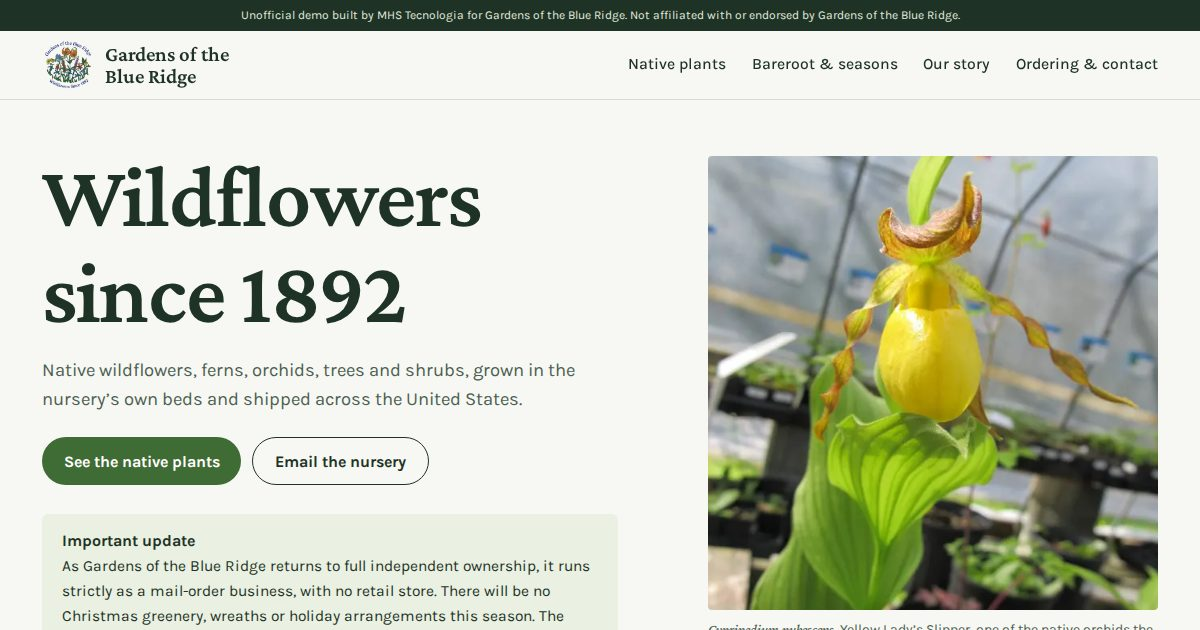
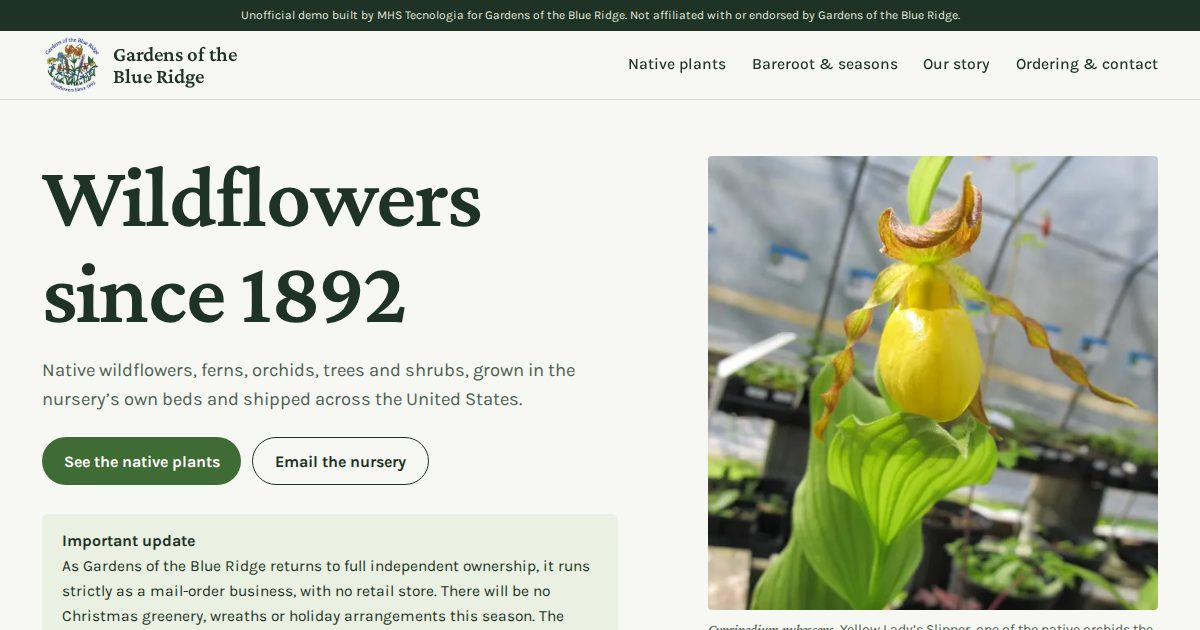
Previews: 113 ativos

Changed region(s): [[0.0308, 0.0603, 0.185, 0.1508]]

diff --git a/gardens-blue-ridge-ennice-nc/plants.html b/gardens-blue-ridge-ennice-nc/plants.html
@@ -42,7 +42,7 @@ em.lat,.lat{font-family:var(--serif);font-style:italic;font-weight:500}
 header.site{background:var(--paper);border-bottom:1px solid var(--line);position:sticky;top:0;z-index:20}
 header.site .wrap{display:flex;align-items:center;justify-content:space-between;gap:1rem;min-height:4.25rem}
 .brand{display:flex;align-items:center;gap:.7rem;color:var(--ink);text-decoration:none}
-.brand img{width:52px;height:52px;mix-blend-mode:multiply}
+.brand img{width:60px;height:60px;mix-blend-mode:multiply}
 .brand span{font-family:var(--serif);font-size:1.3rem;font-weight:600;line-height:1.05}
 .nav{display:flex;align-items:center;gap:1.6rem}
 .nav > a{color:var(--ink);text-decoration:none;font-weight:500;font-size:.98rem;padding:.4rem 0;border-bottom:2px solid transparent}
@@ -169,6 +169,7 @@ header.site .wrap{display:flex;align-items:center;justify-content:space-between;
 .plant{border-top:1px solid var(--line);padding-top:1.1rem}
 .plant .ph{margin:0 0 1rem;aspect-ratio:4/3;overflow:hidden;border-radius:4px;background:#1b1f1a}
 .plant .ph img{width:100%;height:100%;object-fit:cover}
+.plant .ph.fit{background:#000}
 .plant .ph.fit img{object-fit:contain}
 #wild-ginger .ph img{object-position:50% 12%}
 .plant h3{font-size:1.55rem;font-style:italic;font-weight:500}
@@ -176,6 +177,7 @@ header.site .wrap{display:flex;align-items:center;justify-content:space-between;
 .plant p{color:var(--soft);margin:0 0 .7rem;max-width:34rem}
 .plant .meta{display:flex;flex-wrap:wrap;gap:.4rem 1.2rem;font-size:.92rem;color:var(--ink)}
 .plant .meta .out{color:#8a3b1c;font-weight:700}
+.plant .meta .ask{margin-left:auto;font-weight:700;padding:.3rem 0}
 .plant.small{display:block}
 .textlist{display:grid;gap:0 2.5rem}
 @media(min-width:820px){.textlist{grid-template-columns:1fr 1fr}}
@@ -249,7 +251,7 @@ addEventListener('DOMContentLoaded',function(){
 <div class="demo" role="note"><p>Unofficial demo built by MHS Tecnologia for Gardens of the Blue Ridge. Not affiliated with or endorsed by Gardens of the Blue Ridge.</p></div>
 <header class="site">
   <div class="wrap">
-    <a class="brand" href="index.html"><img src="img/logo-180.webp" srcset="img/logo-180.webp 180w, img/logo-360.webp 360w" sizes="52px" width="180" height="180" alt=""><span>Gardens of the<br>Blue Ridge</span></a>
+    <a class="brand" href="index.html"><img src="img/logo-180.webp" srcset="img/logo-180.webp 180w, img/logo-360.webp 360w" sizes="60px" width="180" height="180" alt=""><span>Gardens of the<br>Blue Ridge</span></a>
     <nav class="nav" aria-label="Main">
       <a href="plants.html" aria-current=page>Native plants</a><a href="bareroot.html">Bareroot & seasons</a><a href="about.html">Our story</a><a href="ordering.html">Ordering & contact</a>
       <details class="menu"><summary>Menu</summary><div class="sheet"><a href="index.html">Home</a><a href="plants.html" aria-current=page>Native plants</a><a href="bareroot.html">Bareroot & seasons</a><a href="about.html">Our story</a><a href="ordering.html">Ordering & contact</a></div></details>
@@ -265,7 +267,7 @@ addEventListener('DOMContentLoaded',function(){
     <ul class="jump"><li><a href="#wild">Wildflowers</a></li><li><a href="#fern">Ferns</a></li><li><a href="#orchid">Native orchids</a></li><li><a href="#trillium">Trilliums</a></li></ul>
   </div>
 </section>
-<section class="group" id="wild" aria-labelledby="g-wild"><div class="wrap"><details class="grp" open><summary><h2 id="g-wild">Wildflowers</h2><p>Woodland and meadow wildflowers, from the first hepatica of spring to late-summer cohosh. <span class="count">9 plants</span></p></summary><div class="plants"><article class="plant" id="hepatica"><figure class="ph"><img src="img/hepatica-600.webp" srcset="img/hepatica-600.webp 600w, img/hepatica-692.webp 692w" sizes="(min-width: 1180px) 545px, (min-width: 820px) 45vw, calc(100vw - 2rem)" width="692" height="514" alt="Sharp-lobed Hepatica (Hepatica nobilis acuta), photographed by the nursery" loading="lazy" decoding="async"></figure><h3>Hepatica nobilis acuta</h3><p class="com">Sharp-lobed Hepatica</p><p>A very early spring bloomer, one of the first of the woodland wildflowers to bloom. Has pretty white flowers.</p><div class="meta"><span>$6.95 – $9.40</span></div></article><article class="plant" id="shooting-star"><figure class="ph"><img src="img/shooting-star-600.webp" srcset="img/shooting-star-600.webp 600w, img/shooting-star-1076.webp 1076w" sizes="(min-width: 1180px) 545px, (min-width: 820px) 45vw, calc(100vw - 2rem)" width="1076" height="1434" alt="Shooting Star (Dodecatheon meadia), photographed by the nursery" loading="lazy" decoding="async"></figure><h3>Dodecatheon meadia</h3><p class="com">Shooting Star</p><p>One of our best sellers, has beautiful pure white flowers that appear in the spring.</p><div class="meta"><span>$6.95 – $9.40</span></div></article><article class="plant" id="columbine"><figure class="ph fit"><img src="img/columbine-600.webp" width="600" height="754" alt="American Columbine (Aquilegia canadensis), photographed by the nursery" loading="lazy" decoding="async"></figure><h3>Aquilegia canadensis</h3><p class="com">American Columbine</p><p>The most common Columbine in our area. Has a reddish orange flower with a yellow center. Blooms spring and summer. Will reach a height of 2-3 ft.</p><div class="meta"><span>$9.40</span></div></article><article class="plant" id="coneflower"><figure class="ph"><img src="img/coneflower-600.webp" srcset="img/coneflower-600.webp 600w, img/coneflower-1100.webp 1100w" sizes="(min-width: 1180px) 545px, (min-width: 820px) 45vw, calc(100vw - 2rem)" width="1100" height="825" alt="Purple Coneflower (Echinacea purpurea), photographed by the nursery" loading="lazy" decoding="async"></figure><h3>Echinacea purpurea</h3><p class="com">Purple Coneflower</p><p>This is the best known coneflower and is hard to beat for its beautiful purple flowers in the summer.</p><div class="meta"><span>$9.40</span></div></article><article class="plant" id="fly-poison"><figure class="ph"><img src="img/fly-poison-500.webp" width="500" height="774" alt="Fly Poison (Amianthium muscaetoxicum), photographed by the nursery" loading="lazy" decoding="async"></figure><h3>Amianthium muscaetoxicum</h3><p class="com">Fly Poison</p><p>The basal foliage on this plant is grass like except wider than grass. Has a showy white flower in the summer, really stands out in a shade garden.</p><div class="meta"><span>$14.95 – $19.95</span></div></article><article class="plant" id="black-cohosh"><figure class="ph"><img src="img/black-cohosh-600.webp" srcset="img/black-cohosh-600.webp 600w, img/black-cohosh-1044.webp 1044w" sizes="(min-width: 1180px) 545px, (min-width: 820px) 45vw, calc(100vw - 2rem)" width="1044" height="674" alt="Black Cohosh (Actaea racemosa), photographed by the nursery" loading="lazy" decoding="async"></figure><h3>Actaea racemosa</h3><p class="com">Black Cohosh</p><p>This tall, white spike flower blooms in late summer and grows up to 4-6 feet tall with foliage reaching 3-4 feet tall.</p><div class="meta"><span>$6.95 – $12.55</span></div></article><article class="plant" id="jack"><figure class="ph"><img src="img/jack-600.webp" srcset="img/jack-600.webp 600w, img/jack-1100.webp 1100w" sizes="(min-width: 1180px) 545px, (min-width: 820px) 45vw, calc(100vw - 2rem)" width="1100" height="1467" alt="Jack-in-the-Pulpit (Arisaema triphyllum), photographed by the nursery" loading="lazy" decoding="async"></figure><h3>Arisaema triphyllum</h3><p class="com">Jack-in-the-Pulpit, Indian Turnip</p><p>A must for every woodland garden. Growing to heights of 2 feet or more in a moist shady location. Has 2 leaves generally divided into 3 parts.</p><div class="meta"><span>$6.95 – $12.55</span></div></article><article class="plant" id="wild-ginger"><figure class="ph"><img src="img/wild-ginger-496.webp" width="496" height="866" alt="Canada Wild Ginger (Asarum canadense), photographed by the nursery" loading="lazy" decoding="async"></figure><h3>Asarum canadense</h3><p class="com">Canada Wild Ginger</p><p>This ginger has kidney shaped leaves with purplish flowers just below the leaves right on the ground.</p><div class="meta"><span>$6.95 – $9.40</span></div></article></div><div class="textlist plants" style="margin-top:2.4rem"><article class="plant" id="butterfly-weed"><h3>Asclepias tuberosa</h3><p class="com">Butterfly Weed</p><p>As the name suggests this flower attracts the Butterflies with its bright orange flower during the summer months.</p><div class="meta"><span>$10.45</span></div></article></div></details></div></section><section class="group" id="fern" aria-labelledby="g-fern"><div class="wrap"><details class="grp" open><summary><h2 id="g-fern">Ferns</h2><p>Woodland ferns for shade, several of them evergreen. <span class="count">4 plants</span></p></summary><div class="textlist plants" style="margin-top:2.4rem"><article class="plant" id="lady-fern"><h3>Athyrium asplenioides</h3><p class="com">Lady Fern, Red Stem Fern</p><p>This fern has a feathery texture frond with a red stem. Grows to a height of 18-30 inches. Prefers filtered sun to shade with moist rich soil.</p><div class="meta"><span>$7.30 – $15.70</span></div></article><article class="plant" id="woodfern"><h3>Dryopteris australis</h3><p class="com">Woodfern</p><p>A lush and vibrant fern that can add a touch of nature to any space.</p><div class="meta"><span>$9.95 – $15.70</span></div></article><article class="plant" id="fancy-fern"><h3>Dryopteris intermedia</h3><p class="com">Fancy Fern, Toothed Woodfern</p><p>This fern is usually evergreen except in real cold climates. Its fronds are finely cut giving it a lacy delicate look and they are a dark green.</p><div class="meta"><span>$7.30 – $12.55</span></div></article><article class="plant" id="leather-woodfern"><h3>Dryopteris marginalis</h3><p class="com">Leather Woodfern</p><p>A dark green leathery looking fern that is evergreen. The fronds come out of the root crown in a circle and then lay out somewhat.</p><div class="meta"><span>$7.30 – $12.55</span></div></article></div></details></div></section><section class="group" id="orchid" aria-labelledby="g-orchid"><div class="wrap"><details class="grp" open><summary><h2 id="g-orchid">Native orchids</h2><p>Native orchids, some of them rare. <span class="count">4 plants</span></p></summary><div class="plants"><article class="plant" id="showy-orchid"><figure class="ph"><img src="img/showy-orchid-600.webp" srcset="img/showy-orchid-600.webp 600w, img/showy-orchid-960.webp 960w" sizes="(min-width: 1180px) 545px, (min-width: 820px) 45vw, calc(100vw - 2rem)" width="960" height="1280" alt="Showy Orchid (Galearis spectabilis), photographed by the nursery" loading="lazy" decoding="async"></figure><h3>Galearis spectabilis</h3><p class="com">Showy Orchid</p><p>A native woodland orchid prized for its striking two-toned flowers.</p><div class="meta"><span>$16.50 – $21.20</span><span class=out>Sold out for now</span></div></article></div><div class="textlist plants" style="margin-top:2.4rem"><article class="plant" id="fringed-orchid"><h3>Platanthera ciliaris</h3><p class="com">Yellow Fringed Orchid</p><p>Called the yellow-fringed orchid although the flowers are orange with fringed tips. Blooms late summer to fall reaching a height of 12-18 in.</p><div class="meta"><span>$24.00</span></div></article><article class="plant" id="puttyroot"><h3>Aplectrum hyemale</h3><p class="com">Puttyroot</p><p>A very unusual plant in that the solitary leaf appears in fall and lasts throughout the winter. Leaf is dark green with maroon on the backside.</p><div class="meta"><span>$8.95 – $14.95</span><span class=out>Sold out for now</span></div></article><article class="plant" id="ladys-slipper"><h3>Cypripedium pubescens</h3><p class="com">Yellow Lady’s Slipper</p><p>A rare and captivating orchid that brings a touch of wild elegance to shaded gardens.</p><div class="meta"><span>$75.00 – $145.00</span><span class=out>Sold out for now</span></div></article></div></details></div></section><section class="group" id="trillium" aria-labelledby="g-trillium"><div class="wrap"><details class="grp" open><summary><h2 id="g-trillium">Trilliums</h2><p>Woodland trilliums. From seed, they take about 4 to 6 years to bloom. <span class="count">4 plants</span></p></summary><div class="plants"><article class="plant" id="snow-trillium"><figure class="ph"><img src="img/snow-trillium-600.webp" srcset="img/snow-trillium-600.webp 600w, img/snow-trillium-1024.webp 1024w" sizes="(min-width: 1180px) 545px, (min-width: 820px) 45vw, calc(100vw - 2rem)" width="1024" height="768" alt="Snow Trillium (Trillium grandiflorum), photographed by the nursery" loading="lazy" decoding="async"></figure><h3>Trillium grandiflorum</h3><p class="com">Snow Trillium</p><p>One of the showiest and best known varieties. Has large white flowers in the spring, that turn to a light pink color during late spring.</p><div class="meta"><span>$9.95 – $13.95</span></div></article><article class="plant" id="purple-trillium"><figure class="ph"><img src="img/purple-trillium-600.webp" srcset="img/purple-trillium-600.webp 600w, img/purple-trillium-900.webp 900w" sizes="(min-width: 1180px) 545px, (min-width: 820px) 45vw, calc(100vw - 2rem)" width="900" height="600" alt="Purple Trillium (Trillium erectum), photographed by the nursery" loading="lazy" decoding="async"></figure><h3>Trillium erectum</h3><p class="com">Purple Trillium, Wake Robin</p><p>The flower stands up above the leaves on this Trillium. The flower is usually maroon in color although it will vary one way or the other sometimes.</p><div class="meta"><span>$9.95 – $13.95</span></div></article></div><div class="textlist plants" style="margin-top:2.4rem"><article class="plant" id="toadshade"><h3>Trillium sessile</h3><p class="com">Toadshade Trillium</p><p>A charming native wildflower prized for its distinctive maroon flowers.</p><div class="meta"><span>$9.95 – $13.95</span></div></article><article class="plant" id="yellow-trillium"><h3>Trillium luteum</h3><p class="com">Yellow Trillium</p><p>The light yellow flower sits right on top of the slightly variegated leaves. The leaves on this one can get quite large.</p><div class="meta"><span>$9.95 – $13.95</span></div></article></div></details></div></section>
+<section class="group" id="wild" aria-labelledby="g-wild"><div class="wrap"><details class="grp" open><summary><h2 id="g-wild">Wildflowers</h2><p>Woodland and meadow wildflowers, from the first hepatica of spring to late-summer cohosh. <span class="count">9 plants</span></p></summary><div class="plants"><article class="plant" id="hepatica"><figure class="ph"><img src="img/hepatica-600.webp" srcset="img/hepatica-600.webp 600w, img/hepatica-692.webp 692w" sizes="(min-width: 1180px) 545px, (min-width: 820px) 45vw, calc(100vw - 2rem)" width="692" height="514" alt="Sharp-lobed Hepatica (Hepatica nobilis acuta), photographed by the nursery" loading="lazy" decoding="async"></figure><h3>Hepatica nobilis acuta</h3><p class="com">Sharp-lobed Hepatica</p><p>A very early spring bloomer, one of the first of the woodland wildflowers to bloom. Has pretty white flowers.</p><div class="meta"><span>$6.95 – $9.40</span><a class="ask" href="mailto:contact@gardensoftheblueridge.com?subject=Question%20about%20Hepatica%20nobilis%20acuta">Ask about this plant</a></div></article><article class="plant" id="shooting-star"><figure class="ph"><img src="img/shooting-star-600.webp" srcset="img/shooting-star-600.webp 600w, img/shooting-star-1076.webp 1076w" sizes="(min-width: 1180px) 545px, (min-width: 820px) 45vw, calc(100vw - 2rem)" width="1076" height="1434" alt="Shooting Star (Dodecatheon meadia), photographed by the nursery" loading="lazy" decoding="async"></figure><h3>Dodecatheon meadia</h3><p class="com">Shooting Star</p><p>One of our best sellers, has beautiful pure white flowers that appear in the spring.</p><div class="meta"><span>$6.95 – $9.40</span><a class="ask" href="mailto:contact@gardensoftheblueridge.com?subject=Question%20about%20Dodecatheon%20meadia">Ask about this plant</a></div></article><article class="plant" id="columbine"><figure class="ph fit"><img src="img/columbine-600.webp" width="600" height="754" alt="American Columbine (Aquilegia canadensis), photographed by the nursery" loading="lazy" decoding="async"></figure><h3>Aquilegia canadensis</h3><p class="com">American Columbine</p><p>The most common Columbine in our area. Has a reddish orange flower with a yellow center. Blooms spring and summer. Will reach a height of 2-3 ft.</p><div class="meta"><span>$9.40</span><a class="ask" href="mailto:contact@gardensoftheblueridge.com?subject=Question%20about%20Aquilegia%20canadensis">Ask about this plant</a></div></article><article class="plant" id="coneflower"><figure class="ph"><img src="img/coneflower-600.webp" srcset="img/coneflower-600.webp 600w, img/coneflower-1100.webp 1100w" sizes="(min-width: 1180px) 545px, (min-width: 820px) 45vw, calc(100vw - 2rem)" width="1100" height="825" alt="Purple Coneflower (Echinacea purpurea), photographed by the nursery" loading="lazy" decoding="async"></figure><h3>Echinacea purpurea</h3><p class="com">Purple Coneflower</p><p>This is the best known coneflower and is hard to beat for its beautiful purple flowers in the summer.</p><div class="meta"><span>$9.40</span><a class="ask" href="mailto:contact@gardensoftheblueridge.com?subject=Question%20about%20Echinacea%20purpurea">Ask about this plant</a></div></article><article class="plant" id="fly-poison"><figure class="ph"><img src="img/fly-poison-500.webp" width="500" height="774" alt="Fly Poison (Amianthium muscaetoxicum), photographed by the nursery" loading="lazy" decoding="async"></figure><h3>Amianthium muscaetoxicum</h3><p class="com">Fly Poison</p><p>The basal foliage on this plant is grass like except wider than grass. Has a showy white flower in the summer, really stands out in a shade garden.</p><div class="meta"><span>$14.95 – $19.95</span><a class="ask" href="mailto:contact@gardensoftheblueridge.com?subject=Question%20about%20Amianthium%20muscaetoxicum">Ask about this plant</a></div></article><article class="plant" id="black-cohosh"><figure class="ph"><img src="img/black-cohosh-600.webp" srcset="img/black-cohosh-600.webp 600w, img/black-cohosh-1044.webp 1044w" sizes="(min-width: 1180px) 545px, (min-width: 820px) 45vw, calc(100vw - 2rem)" width="1044" height="674" alt="Black Cohosh (Actaea racemosa), photographed by the nursery" loading="lazy" decoding="async"></figure><h3>Actaea racemosa</h3><p class="com">Black Cohosh</p><p>This tall, white spike flower blooms in late summer and grows up to 4-6 feet tall with foliage reaching 3-4 feet tall.</p><div class="meta"><span>$6.95 – $12.55</span><a class="ask" href="mailto:contact@gardensoftheblueridge.com?subject=Question%20about%20Actaea%20racemosa">Ask about this plant</a></div></article><article class="plant" id="jack"><figure class="ph"><img src="img/jack-600.webp" srcset="img/jack-600.webp 600w, img/jack-1100.webp 1100w" sizes="(min-width: 1180px) 545px, (min-width: 820px) 45vw, calc(100vw - 2rem)" width="1100" height="1467" alt="Jack-in-the-Pulpit (Arisaema triphyllum), photographed by the nursery" loading="lazy" decoding="async"></figure><h3>Arisaema triphyllum</h3><p class="com">Jack-in-the-Pulpit, Indian Turnip</p><p>A must for every woodland garden. Growing to heights of 2 feet or more in a moist shady location. Has 2 leaves generally divided into 3 parts.</p><div class="meta"><span>$6.95 – $12.55</span><a class="ask" href="mailto:contact@gardensoftheblueridge.com?subject=Question%20about%20Arisaema%20triphyllum">Ask about this plant</a></div></article><article class="plant" id="wild-ginger"><figure class="ph"><img src="img/wild-ginger-496.webp" width="496" height="866" alt="Canada Wild Ginger (Asarum canadense), photographed by the nursery" loading="lazy" decoding="async"></figure><h3>Asarum canadense</h3><p class="com">Canada Wild Ginger</p><p>This ginger has kidney shaped leaves with purplish flowers just below the leaves right on the ground.</p><div class="meta"><span>$6.95 – $9.40</span><a class="ask" href="mailto:contact@gardensoftheblueridge.com?subject=Question%20about%20Asarum%20canadense">Ask about this plant</a></div></article></div><div class="textlist plants" style="margin-top:2.4rem"><article class="plant" id="butterfly-weed"><h3>Asclepias tuberosa</h3><p class="com">Butterfly Weed</p><p>As the name suggests this flower attracts the Butterflies with its bright orange flower during the summer months.</p><div class="meta"><span>$10.45</span><a class="ask" href="mailto:contact@gardensoftheblueridge.com?subject=Question%20about%20Asclepias%20tuberosa">Ask about this plant</a></div></article></div></details></div></section><section class="group" id="fern" aria-labelledby="g-fern"><div class="wrap"><details class="grp" open><summary><h2 id="g-fern">Ferns</h2><p>Woodland ferns for shade, several of them evergreen. <span class="count">4 plants</span></p></summary><div class="textlist plants" style="margin-top:2.4rem"><article class="plant" id="lady-fern"><h3>Athyrium asplenioides</h3><p class="com">Lady Fern, Red Stem Fern</p><p>This fern has a feathery texture frond with a red stem. Grows to a height of 18-30 inches. Prefers filtered sun to shade with moist rich soil.</p><div class="meta"><span>$7.30 – $15.70</span><a class="ask" href="mailto:contact@gardensoftheblueridge.com?subject=Question%20about%20Athyrium%20asplenioides">Ask about this plant</a></div></article><article class="plant" id="woodfern"><h3>Dryopteris australis</h3><p class="com">Woodfern</p><p>A lush and vibrant fern that can add a touch of nature to any space.</p><div class="meta"><span>$9.95 – $15.70</span><a class="ask" href="mailto:contact@gardensoftheblueridge.com?subject=Question%20about%20Dryopteris%20australis">Ask about this plant</a></div></article><article class="plant" id="fancy-fern"><h3>Dryopteris intermedia</h3><p class="com">Fancy Fern, Toothed Woodfern</p><p>This fern is usually evergreen except in real cold climates. Its fronds are finely cut giving it a lacy delicate look and they are a dark green.</p><div class="meta"><span>$7.30 – $12.55</span><a class="ask" href="mailto:contact@gardensoftheblueridge.com?subject=Question%20about%20Dryopteris%20intermedia">Ask about this plant</a></div></article><article class="plant" id="leather-woodfern"><h3>Dryopteris marginalis</h3><p class="com">Leather Woodfern</p><p>A dark green leathery looking fern that is evergreen. The fronds come out of the root crown in a circle and then lay out somewhat.</p><div class="meta"><span>$7.30 – $12.55</span><a class="ask" href="mailto:contact@gardensoftheblueridge.com?subject=Question%20about%20Dryopteris%20marginalis">Ask about this plant</a></div></article></div></details></div></section><section class="group" id="orchid" aria-labelledby="g-orchid"><div class="wrap"><details class="grp" open><summary><h2 id="g-orchid">Native orchids</h2><p>Native orchids, some of them rare. <span class="count">4 plants</span></p></summary><div class="plants"><article class="plant" id="showy-orchid"><figure class="ph"><img src="img/showy-orchid-600.webp" srcset="img/showy-orchid-600.webp 600w, img/showy-orchid-960.webp 960w" sizes="(min-width: 1180px) 545px, (min-width: 820px) 45vw, calc(100vw - 2rem)" width="960" height="1280" alt="Showy Orchid (Galearis spectabilis), photographed by the nursery" loading="lazy" decoding="async"></figure><h3>Galearis spectabilis</h3><p class="com">Showy Orchid</p><p>A native woodland orchid prized for its striking two-toned flowers.</p><div class="meta"><span>$16.50 – $21.20</span><span class=out>Sold out for now</span><a class="ask" href="mailto:contact@gardensoftheblueridge.com?subject=Question%20about%20Galearis%20spectabilis">Ask about this plant</a></div></article></div><div class="textlist plants" style="margin-top:2.4rem"><article class="plant" id="fringed-orchid"><h3>Platanthera ciliaris</h3><p class="com">Yellow Fringed Orchid</p><p>Called the yellow-fringed orchid although the flowers are orange with fringed tips. Blooms late summer to fall reaching a height of 12-18 in.</p><div class="meta"><span>$24.00</span><a class="ask" href="mailto:contact@gardensoftheblueridge.com?subject=Question%20about%20Platanthera%20ciliaris">Ask about this plant</a></div></article><article class="plant" id="puttyroot"><h3>Aplectrum hyemale</h3><p class="com">Puttyroot</p><p>A very unusual plant in that the solitary leaf appears in fall and lasts throughout the winter. Leaf is dark green with maroon on the backside.</p><div class="meta"><span>$8.95 – $14.95</span><span class=out>Sold out for now</span><a class="ask" href="mailto:contact@gardensoftheblueridge.com?subject=Question%20about%20Aplectrum%20hyemale">Ask about this plant</a></div></article><article class="plant" id="ladys-slipper"><h3>Cypripedium pubescens</h3><p class="com">Yellow Lady’s Slipper</p><p>A rare and captivating orchid that brings a touch of wild elegance to shaded gardens.</p><div class="meta"><span>$75.00 – $145.00</span><span class=out>Sold out for now</span><a class="ask" href="mailto:contact@gardensoftheblueridge.com?subject=Question%20about%20Cypripedium%20pubescens">Ask about this plant</a></div></article></div></details></div></section><section class="group" id="trillium" aria-labelledby="g-trillium"><div class="wrap"><details class="grp" open><summary><h2 id="g-trillium">Trilliums</h2><p>Woodland trilliums. From seed, they take about 4 to 6 years to bloom. <span class="count">4 plants</span></p></summary><div class="plants"><article class="plant" id="snow-trillium"><figure class="ph"><img src="img/snow-trillium-600.webp" srcset="img/snow-trillium-600.webp 600w, img/snow-trillium-1024.webp 1024w" sizes="(min-width: 1180px) 545px, (min-width: 820px) 45vw, calc(100vw - 2rem)" width="1024" height="768" alt="Snow Trillium (Trillium grandiflorum), photographed by the nursery" loading="lazy" decoding="async"></figure><h3>Trillium grandiflorum</h3><p class="com">Snow Trillium</p><p>One of the showiest and best known varieties. Has large white flowers in the spring, that turn to a light pink color during late spring.</p><div class="meta"><span>$9.95 – $13.95</span><a class="ask" href="mailto:contact@gardensoftheblueridge.com?subject=Question%20about%20Trillium%20grandiflorum">Ask about this plant</a></div></article><article class="plant" id="purple-trillium"><figure class="ph"><img src="img/purple-trillium-600.webp" srcset="img/purple-trillium-600.webp 600w, img/purple-trillium-900.webp 900w" sizes="(min-width: 1180px) 545px, (min-width: 820px) 45vw, calc(100vw - 2rem)" width="900" height="600" alt="Purple Trillium (Trillium erectum), photographed by the nursery" loading="lazy" decoding="async"></figure><h3>Trillium erectum</h3><p class="com">Purple Trillium, Wake Robin</p><p>The flower stands up above the leaves on this Trillium. The flower is usually maroon in color although it will vary one way or the other sometimes.</p><div class="meta"><span>$9.95 – $13.95</span><a class="ask" href="mailto:contact@gardensoftheblueridge.com?subject=Question%20about%20Trillium%20erectum">Ask about this plant</a></div></article></div><div class="textlist plants" style="margin-top:2.4rem"><article class="plant" id="toadshade"><h3>Trillium sessile</h3><p class="com">Toadshade Trillium</p><p>A charming native wildflower prized for its distinctive maroon flowers.</p><div class="meta"><span>$9.95 – $13.95</span><a class="ask" href="mailto:contact@gardensoftheblueridge.com?subject=Question%20about%20Trillium%20sessile">Ask about this plant</a></div></article><article class="plant" id="yellow-trillium"><h3>Trillium luteum</h3><p class="com">Yellow Trillium</p><p>The light yellow flower sits right on top of the slightly variegated leaves. The leaves on this one can get quite large.</p><div class="meta"><span>$9.95 – $13.95</span><a class="ask" href="mailto:contact@gardensoftheblueridge.com?subject=Question%20about%20Trillium%20luteum">Ask about this plant</a></div></article></div></details></div></section>
 <section class="sec" aria-labelledby="more">
   <div class="wrap">
     <h2 id="more">More in the full store</h2>

diff --git a/gardens-blue-ridge-ennice-nc/about.html b/gardens-blue-ridge-ennice-nc/about.html
@@ -42,7 +42,7 @@ em.lat,.lat{font-family:var(--serif);font-style:italic;font-weight:500}
 header.site{background:var(--paper);border-bottom:1px solid var(--line);position:sticky;top:0;z-index:20}
 header.site .wrap{display:flex;align-items:center;justify-content:space-between;gap:1rem;min-height:4.25rem}
 .brand{display:flex;align-items:center;gap:.7rem;color:var(--ink);text-decoration:none}
-.brand img{width:52px;height:52px;mix-blend-mode:multiply}
+.brand img{width:60px;height:60px;mix-blend-mode:multiply}
 .brand span{font-family:var(--serif);font-size:1.3rem;font-weight:600;line-height:1.05}
 .nav{display:flex;align-items:center;gap:1.6rem}
 .nav > a{color:var(--ink);text-decoration:none;font-weight:500;font-size:.98rem;padding:.4rem 0;border-bottom:2px solid transparent}
@@ -169,6 +169,7 @@ header.site .wrap{display:flex;align-items:center;justify-content:space-between;
 .plant{border-top:1px solid var(--line);padding-top:1.1rem}
 .plant .ph{margin:0 0 1rem;aspect-ratio:4/3;overflow:hidden;border-radius:4px;background:#1b1f1a}
 .plant .ph img{width:100%;height:100%;object-fit:cover}
+.plant .ph.fit{background:#000}
 .plant .ph.fit img{object-fit:contain}
 #wild-ginger .ph img{object-position:50% 12%}
 .plant h3{font-size:1.55rem;font-style:italic;font-weight:500}
@@ -176,6 +177,7 @@ header.site .wrap{display:flex;align-items:center;justify-content:space-between;
 .plant p{color:var(--soft);margin:0 0 .7rem;max-width:34rem}
 .plant .meta{display:flex;flex-wrap:wrap;gap:.4rem 1.2rem;font-size:.92rem;color:var(--ink)}
 .plant .meta .out{color:#8a3b1c;font-weight:700}
+.plant .meta .ask{margin-left:auto;font-weight:700;padding:.3rem 0}
 .plant.small{display:block}
 .textlist{display:grid;gap:0 2.5rem}
 @media(min-width:820px){.textlist{grid-template-columns:1fr 1fr}}
@@ -249,7 +251,7 @@ addEventListener('DOMContentLoaded',function(){
 <div class="demo" role="note"><p>Unofficial demo built by MHS Tecnologia for Gardens of the Blue Ridge. Not affiliated with or endorsed by Gardens of the Blue Ridge.</p></div>
 <header class="site">
   <div class="wrap">
-    <a class="brand" href="index.html"><img src="img/logo-180.webp" srcset="img/logo-180.webp 180w, img/logo-360.webp 360w" sizes="52px" width="180" height="180" alt=""><span>Gardens of the<br>Blue Ridge</span></a>
+    <a class="brand" href="index.html"><img src="img/logo-180.webp" srcset="img/logo-180.webp 180w, img/logo-360.webp 360w" sizes="60px" width="180" height="180" alt=""><span>Gardens of the<br>Blue Ridge</span></a>
     <nav class="nav" aria-label="Main">
       <a href="plants.html">Native plants</a><a href="bareroot.html">Bareroot & seasons</a><a href="about.html" aria-current=page>Our story</a><a href="ordering.html">Ordering & contact</a>
       <details class="menu"><summary>Menu</summary><div class="sheet"><a href="index.html">Home</a><a href="plants.html">Native plants</a><a href="bareroot.html">Bareroot & seasons</a><a href="about.html" aria-current=page>Our story</a><a href="ordering.html">Ordering & contact</a></div></details>
@@ -283,8 +285,8 @@ addEventListener('DOMContentLoaded',function(){
 <section class="sec family" aria-labelledby="grow">
   <div class="wrap two">
     <figure class="photo">
-      <img src="img/coneflower-600.webp" srcset="img/coneflower-600.webp 600w, img/coneflower-1100.webp 1100w" sizes="(min-width: 1180px) 530px, (min-width: 900px) 45vw, calc(100vw - 2rem)" width="1100" height="825" alt="A Purple Coneflower in bloom" loading="lazy" decoding="async">
-      <figcaption><em class="lat">Echinacea purpurea</em>, Purple Coneflower, one of the nursery’s best sellers.</figcaption>
+      <img src="img/snow-trillium-600.webp" srcset="img/snow-trillium-600.webp 600w, img/snow-trillium-1024.webp 1024w" sizes="(min-width: 1180px) 530px, (min-width: 900px) 45vw, calc(100vw - 2rem)" width="1024" height="768" alt="A white Snow Trillium in flower among its three broad leaves" loading="lazy" decoding="async">
+      <figcaption><em class="lat">Trillium grandiflorum</em>, Snow Trillium, one of the showiest trilliums the nursery offers.</figcaption>
     </figure>
     <div class="prose">
       <h2 id="grow">What the nursery grows</h2>

diff --git a/gardens-blue-ridge-ennice-nc/bareroot.html b/gardens-blue-ridge-ennice-nc/bareroot.html
@@ -42,7 +42,7 @@ em.lat,.lat{font-family:var(--serif);font-style:italic;font-weight:500}
 header.site{background:var(--paper);border-bottom:1px solid var(--line);position:sticky;top:0;z-index:20}
 header.site .wrap{display:flex;align-items:center;justify-content:space-between;gap:1rem;min-height:4.25rem}
 .brand{display:flex;align-items:center;gap:.7rem;color:var(--ink);text-decoration:none}
-.brand img{width:52px;height:52px;mix-blend-mode:multiply}
+.brand img{width:60px;height:60px;mix-blend-mode:multiply}
 .brand span{font-family:var(--serif);font-size:1.3rem;font-weight:600;line-height:1.05}
 .nav{display:flex;align-items:center;gap:1.6rem}
 .nav > a{color:var(--ink);text-decoration:none;font-weight:500;font-size:.98rem;padding:.4rem 0;border-bottom:2px solid transparent}
@@ -169,6 +169,7 @@ header.site .wrap{display:flex;align-items:center;justify-content:space-between;
 .plant{border-top:1px solid var(--line);padding-top:1.1rem}
 .plant .ph{margin:0 0 1rem;aspect-ratio:4/3;overflow:hidden;border-radius:4px;background:#1b1f1a}
 .plant .ph img{width:100%;height:100%;object-fit:cover}
+.plant .ph.fit{background:#000}
 .plant .ph.fit img{object-fit:contain}
 #wild-ginger .ph img{object-position:50% 12%}
 .plant h3{font-size:1.55rem;font-style:italic;font-weight:500}
@@ -176,6 +177,7 @@ header.site .wrap{display:flex;align-items:center;justify-content:space-between;
 .plant p{color:var(--soft);margin:0 0 .7rem;max-width:34rem}
 .plant .meta{display:flex;flex-wrap:wrap;gap:.4rem 1.2rem;font-size:.92rem;color:var(--ink)}
 .plant .meta .out{color:#8a3b1c;font-weight:700}
+.plant .meta .ask{margin-left:auto;font-weight:700;padding:.3rem 0}
 .plant.small{display:block}
 .textlist{display:grid;gap:0 2.5rem}
 @media(min-width:820px){.textlist{grid-template-columns:1fr 1fr}}
@@ -249,7 +251,7 @@ addEventListener('DOMContentLoaded',function(){
 <div class="demo" role="note"><p>Unofficial demo built by MHS Tecnologia for Gardens of the Blue Ridge. Not affiliated with or endorsed by Gardens of the Blue Ridge.</p></div>
 <header class="site">
   <div class="wrap">
-    <a class="brand" href="index.html"><img src="img/logo-180.webp" srcset="img/logo-180.webp 180w, img/logo-360.webp 360w" sizes="52px" width="180" height="180" alt=""><span>Gardens of the<br>Blue Ridge</span></a>
+    <a class="brand" href="index.html"><img src="img/logo-180.webp" srcset="img/logo-180.webp 180w, img/logo-360.webp 360w" sizes="60px" width="180" height="180" alt=""><span>Gardens of the<br>Blue Ridge</span></a>
     <nav class="nav" aria-label="Main">
       <a href="plants.html">Native plants</a><a href="bareroot.html" aria-current=page>Bareroot & seasons</a><a href="about.html">Our story</a><a href="ordering.html">Ordering & contact</a>
       <details class="menu"><summary>Menu</summary><div class="sheet"><a href="index.html">Home</a><a href="plants.html">Native plants</a><a href="bareroot.html" aria-current=page>Bareroot & seasons</a><a href="about.html">Our story</a><a href="ordering.html">Ordering & contact</a></div></details>
@@ -269,6 +271,10 @@ addEventListener('DOMContentLoaded',function(){
     <div>
       <h2 id="what">What arrives in the box</h2>
       <p class="prose" style="margin-top:1rem">A bareroot plant is one grown in the nursery’s beds from a division, cutting or seed until it reaches mature size. In spring and fall the plants are harvested, and the healthiest-looking roots are picked out.</p>
+      <figure class="photo" style="max-width:380px;margin-top:1.6rem">
+        <img src="img/wild-ginger-496.webp" width="496" height="866" alt="Canada Wild Ginger with its kidney-shaped leaves, growing in a pot at the nursery" loading="lazy" decoding="async">
+        <figcaption><em class="lat">Asarum canadense</em>, Canada Wild Ginger, listed among the nursery’s bareroot plants.</figcaption>
+      </figure>
     </div>
     <ol class="steps">
       <li><span>Harvested while still dormant.</span></li>

diff --git a/gardens-blue-ridge-ennice-nc/ordering.html b/gardens-blue-ridge-ennice-nc/ordering.html
@@ -42,7 +42,7 @@ em.lat,.lat{font-family:var(--serif);font-style:italic;font-weight:500}
 header.site{background:var(--paper);border-bottom:1px solid var(--line);position:sticky;top:0;z-index:20}
 header.site .wrap{display:flex;align-items:center;justify-content:space-between;gap:1rem;min-height:4.25rem}
 .brand{display:flex;align-items:center;gap:.7rem;color:var(--ink);text-decoration:none}
-.brand img{width:52px;height:52px;mix-blend-mode:multiply}
+.brand img{width:60px;height:60px;mix-blend-mode:multiply}
 .brand span{font-family:var(--serif);font-size:1.3rem;font-weight:600;line-height:1.05}
 .nav{display:flex;align-items:center;gap:1.6rem}
 .nav > a{color:var(--ink);text-decoration:none;font-weight:500;font-size:.98rem;padding:.4rem 0;border-bottom:2px solid transparent}
@@ -169,6 +169,7 @@ header.site .wrap{display:flex;align-items:center;justify-content:space-between;
 .plant{border-top:1px solid var(--line);padding-top:1.1rem}
 .plant .ph{margin:0 0 1rem;aspect-ratio:4/3;overflow:hidden;border-radius:4px;background:#1b1f1a}
 .plant .ph img{width:100%;height:100%;object-fit:cover}
+.plant .ph.fit{background:#000}
 .plant .ph.fit img{object-fit:contain}
 #wild-ginger .ph img{object-position:50% 12%}
 .plant h3{font-size:1.55rem;font-style:italic;font-weight:500}
@@ -176,6 +177,7 @@ header.site .wrap{display:flex;align-items:center;justify-content:space-between;
 .plant p{color:var(--soft);margin:0 0 .7rem;max-width:34rem}
 .plant .meta{display:flex;flex-wrap:wrap;gap:.4rem 1.2rem;font-size:.92rem;color:var(--ink)}
 .plant .meta .out{color:#8a3b1c;font-weight:700}
+.plant .meta .ask{margin-left:auto;font-weight:700;padding:.3rem 0}
 .plant.small{display:block}
 .textlist{display:grid;gap:0 2.5rem}
 @media(min-width:820px){.textlist{grid-template-columns:1fr 1fr}}
@@ -249,7 +251,7 @@ addEventListener('DOMContentLoaded',function(){
 <div class="demo" role="note"><p>Unofficial demo built by MHS Tecnologia for Gardens of the Blue Ridge. Not affiliated with or endorsed by Gardens of the Blue Ridge.</p></div>
 <header class="site">
   <div class="wrap">
-    <a class="brand" href="index.html"><img src="img/logo-180.webp" srcset="img/logo-180.webp 180w, img/logo-360.webp 360w" sizes="52px" width="180" height="180" alt=""><span>Gardens of the<br>Blue Ridge</span></a>
+    <a class="brand" href="index.html"><img src="img/logo-180.webp" srcset="img/logo-180.webp 180w, img/logo-360.webp 360w" sizes="60px" width="180" height="180" alt=""><span>Gardens of the<br>Blue Ridge</span></a>
     <nav class="nav" aria-label="Main">
       <a href="plants.html">Native plants</a><a href="bareroot.html">Bareroot & seasons</a><a href="about.html">Our story</a><a href="ordering.html" aria-current=page>Ordering & contact</a>
       <details class="menu"><summary>Menu</summary><div class="sheet"><a href="index.html">Home</a><a href="plants.html">Native plants</a><a href="bareroot.html">Bareroot & seasons</a><a href="about.html">Our story</a><a href="ordering.html" aria-current=page>Ordering & contact</a></div></details>
@@ -271,7 +273,13 @@ addEventListener('DOMContentLoaded',function(){
 </section>
 <section class="sec" aria-labelledby="how">
   <div class="wrap two">
-    <h2 id="how">Picking a ship date</h2>
+    <div>
+      <h2 id="how">Picking a ship date</h2>
+      <figure class="photo" style="margin-top:1.6rem">
+        <img src="img/shooting-star-600.webp" srcset="img/shooting-star-600.webp 600w, img/shooting-star-1076.webp 1076w" sizes="(min-width: 1180px) 530px, (min-width: 900px) 45vw, calc(100vw - 2rem)" width="1076" height="1434" alt="Shooting Star in bloom, white flowers with swept-back petals" loading="lazy" decoding="async">
+        <figcaption><em class="lat">Dodecatheon meadia</em>, Shooting Star. “One of our best sellers.”</figcaption>
+      </figure>
+    </div>
     <div>
       <ol class="steps">
         <li><span>Add your plants to the cart in the online store.</span></li>

diff --git a/gardens-blue-ridge-ennice-nc/index.html b/gardens-blue-ridge-ennice-nc/index.html
@@ -44,7 +44,7 @@ em.lat,.lat{font-family:var(--serif);font-style:italic;font-weight:500}
 header.site{background:var(--paper);border-bottom:1px solid var(--line);position:sticky;top:0;z-index:20}
 header.site .wrap{display:flex;align-items:center;justify-content:space-between;gap:1rem;min-height:4.25rem}
 .brand{display:flex;align-items:center;gap:.7rem;color:var(--ink);text-decoration:none}
-.brand img{width:52px;height:52px;mix-blend-mode:multiply}
+.brand img{width:60px;height:60px;mix-blend-mode:multiply}
 .brand span{font-family:var(--serif);font-size:1.3rem;font-weight:600;line-height:1.05}
 .nav{display:flex;align-items:center;gap:1.6rem}
 .nav > a{color:var(--ink);text-decoration:none;font-weight:500;font-size:.98rem;padding:.4rem 0;border-bottom:2px solid transparent}
@@ -171,6 +171,7 @@ header.site .wrap{display:flex;align-items:center;justify-content:space-between;
 .plant{border-top:1px solid var(--line);padding-top:1.1rem}
 .plant .ph{margin:0 0 1rem;aspect-ratio:4/3;overflow:hidden;border-radius:4px;background:#1b1f1a}
 .plant .ph img{width:100%;height:100%;object-fit:cover}
+.plant .ph.fit{background:#000}
 .plant .ph.fit img{object-fit:contain}
 #wild-ginger .ph img{object-position:50% 12%}
 .plant h3{font-size:1.55rem;font-style:italic;font-weight:500}
@@ -178,6 +179,7 @@ header.site .wrap{display:flex;align-items:center;justify-content:space-between;
 .plant p{color:var(--soft);margin:0 0 .7rem;max-width:34rem}
 .plant .meta{display:flex;flex-wrap:wrap;gap:.4rem 1.2rem;font-size:.92rem;color:var(--ink)}
 .plant .meta .out{color:#8a3b1c;font-weight:700}
+.plant .meta .ask{margin-left:auto;font-weight:700;padding:.3rem 0}
 .plant.small{display:block}
 .textlist{display:grid;gap:0 2.5rem}
 @media(min-width:820px){.textlist{grid-template-columns:1fr 1fr}}
@@ -258,7 +260,7 @@ addEventListener('DOMContentLoaded',function(){
 <div class="demo" role="note"><p>Unofficial demo built by MHS Tecnologia for Gardens of the Blue Ridge. Not affiliated with or endorsed by Gardens of the Blue Ridge.</p></div>
 <header class="site">
   <div class="wrap">
-    <a class="brand" href="index.html"><img src="img/logo-180.webp" srcset="img/logo-180.webp 180w, img/logo-360.webp 360w" sizes="52px" width="180" height="180" alt=""><span>Gardens of the<br>Blue Ridge</span></a>
+    <a class="brand" href="index.html"><img src="img/logo-180.webp" srcset="img/logo-180.webp 180w, img/logo-360.webp 360w" sizes="60px" width="180" height="180" alt=""><span>Gardens of the<br>Blue Ridge</span></a>
     <nav class="nav" aria-label="Main">
       <a href="plants.html">Native plants</a><a href="bareroot.html">Bareroot & seasons</a><a href="about.html">Our story</a><a href="ordering.html">Ordering & contact</a>
       <details class="menu"><summary>Menu</summary><div class="sheet"><a href="index.html" aria-current=page>Home</a><a href="plants.html">Native plants</a><a href="bareroot.html">Bareroot & seasons</a><a href="about.html">Our story</a><a href="ordering.html">Ordering & contact</a></div></details>
